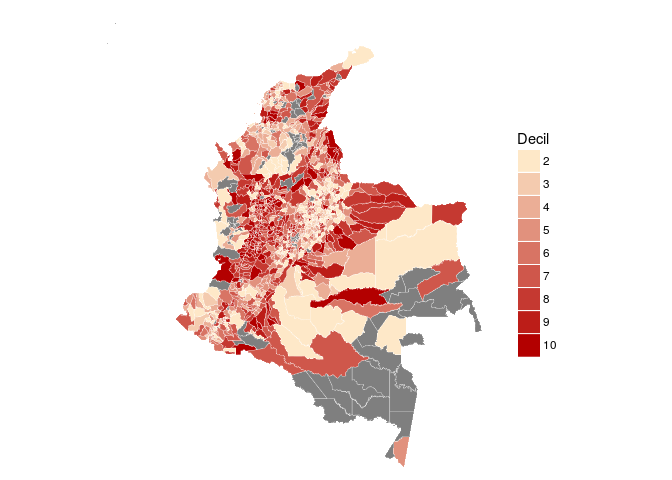
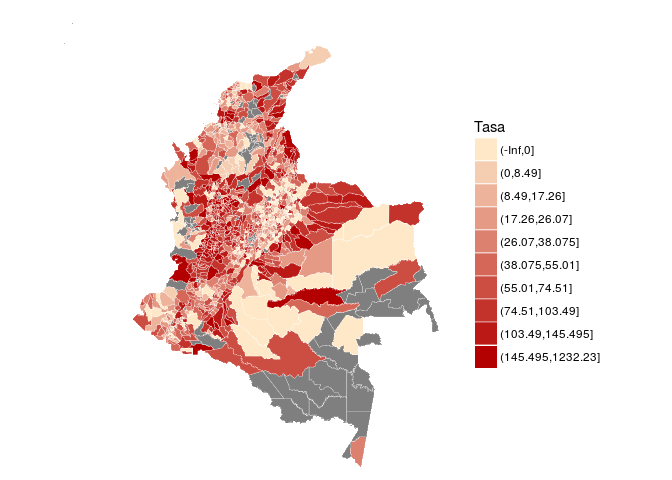
Edit README - add About, some links and edit last map

Changed region(s): [[0.1875, 0.0938, 0.9062, 0.9688]]

diff --git a/README.md b/README.md
@@ -2,13 +2,14 @@
 colmaps
 =======
 
-colmaps - colombian maps or color maps (your choice) - is an R package with current boundaries data of Colombia plus a minimal `ggplot2::geom_map()` wrapper to make [choropleth maps](https://en.wikipedia.org/wiki/Choropleth_map) with selected default color scales.
+colmaps - colombian maps or color maps (your choice) - is an R package with current boundaries data of Colombia plus a minimal [`ggplot2::geom_map()`](http://docs.ggplot2.org/current/geom_map.html) wrapper to make [choropleth maps](https://en.wikipedia.org/wiki/Choropleth_map) with selected default color scales.
 
 ### Installation
 
-You can install colmaps from GitHub with `devtools`:
+You can install colmaps from GitHub with [`devtools`](htpps://github.com/hadley/devtools):
 
 ``` r
+# install.packages("devtools")
 devtools::install_github("nebulae-co/colmaps")
 ```
 
@@ -31,7 +32,7 @@ head(municipios@data)
     #> 5 68245       68         El Guacamayo    Santander
     #> 6 25823       25              Topaipí Cundinamarca
 
-The wrapper around `ggplot2::geom_map()` is `colmap()`, it will take a `map` and some `data` and ggplot it with a selected color scale and a good theme for maps taken from `ggmap::theme_nothing()`. Since it is build with ggplot it also returns a ggplot object so one can further alter the plot in ggplot idiom, note however that you need to explicitly load ggplot to add further ggplot layers and modifications.
+The wrapper around `ggplot2::geom_map()` is `colmap()`, it will take a `map` and some `data` and ggplot it with a selected color scale and a good theme for maps taken from [`ggmap::theme_nothing()`](https://github.com/dkahle/ggmap). Since it is build with ggplot it also returns a ggplot object so one can further alter the plot in ggplot idiom, note however that you need to explicitly load ggplot to add further layers and modifications.
 
 By default the id of each area will be used as a variable:
 
@@ -44,7 +45,7 @@ colmap(municipios) +
 
 <img src="README/municipios-1.png" title="" alt="" style="display: block; margin: auto;" />
 
-But if you have data of each geographical unit you can pass it, specifying how to relate the map and the data frame. For example, from the [`homicidios`](https://github.com/nebulae-co/homicidios) package we have historical population, homicides and homicides rates data for municipalities:
+But if you have data of each geographical unit you can pass it, specifying how to relate the map and the data frame. For example, from the [`homicidios`](https://github.com/nebulae-co/homicidios) package we have historical population, homicides and homicide rates data for municipalities:
 
 ``` r
 # devtools::install_github("nebulae-co/homicidios")
@@ -69,7 +70,7 @@ colmap(municipios, subset(homicidios, año == 2000), var = "tasa")
 
 <img src="README/homicides-map-a-1.png" title="" alt="" style="display: block; margin: auto;" />
 
-Tragically (and also ironically I guess) on the year 2000, the municipality of Matanza, Santander had a homicide rate of over 1200 murders per 100.000 inhabitants, which distorts the default color scale dramatically, but we can manually re-scale the variable to be mapped into the color aesthetic, for example we can plot `log(tasa + 1)` instead of `tasa` and also we can override the default color scale in ggplot idiom. We will use `dplyr` and the pipe operator (`%>%`) from here on to handle the data with ease:
+Tragically (and also ironically?!) on the year 2000, the municipality of Matanza, Santander had a homicide rate of over 1200 murders per 100.000 inhabitants, which distorts the default color scale dramatically, but we can manually re-scale the variable to be mapped into the color aesthetic, for example we can plot `log(tasa + 1)` instead of `tasa` and also we can override the default color scale in ggplot idiom. We will use [`dplyr`](https://github.com/dplyr) and [the pipe operator (`%>%`)](https://github.com/smbache/magrittr) from here on to handle the data with ease:
 
 ``` r
 library("ggplot2")
@@ -142,12 +143,22 @@ We have already seen numeric data and factors (with more than ten levels in the 
 ``` r
 homicidios %>%
   filter(año == 2000) %>%
-  mutate(Decil = cut(x = tasa,
-                     breaks = quantile(tasa, seq(0.1, 1, 0.1), na.rm = TRUE),
-                     labels = seq(2, 10, 1),
-                     include.lowest = TRUE,
-                     ordered_result = TRUE)) %>%
-  colmap(municipios, data = ., var = "Decil")
+  mutate(tasa = round(tasa, 2),
+         Tasa = cut(x = tasa,
+                     breaks = c("0%" = -Inf,
+                                quantile(tasa, seq(0.1, 1, 0.1), na.rm = TRUE)),
+                     ordered_result = TRUE,
+                     dig.lab = 6)) %>%
+  colmap(municipios, data = ., var = "Tasa")
 ```
 
 <img src="README/homicides-map-c-1.png" title="" alt="" style="display: block; margin: auto;" />
+
+About
+-----
+
+This is the result of a sub-project [we](https://github.com/nebulae-co) started with various goals:
+
+-   [learn how to make R packages](http://r-pkgs.had.co.nz/) (in particular data packages) and improving our [`git`](https://git-scm.com/) skills
+-   distribute [some](https://github.com/nebulae-co/homicidios) [data](https://github.com/nebulae-co/saber) we think should be easier to access in an simple way - of course this is mainly targeted for R users, including ourselves
+-   enable us to do some map visualizations in a simpler way. We used this data to prepare the vignette: [*Un micro-mapa de Colombia*](http://nebulae-co.github.io/colmaps/micromapa) which shows an example of a [linked micromap](https://www.jstatsoft.org/article/view/v063i02) with colombian data. That vizualisaton was presented in a random academic event
